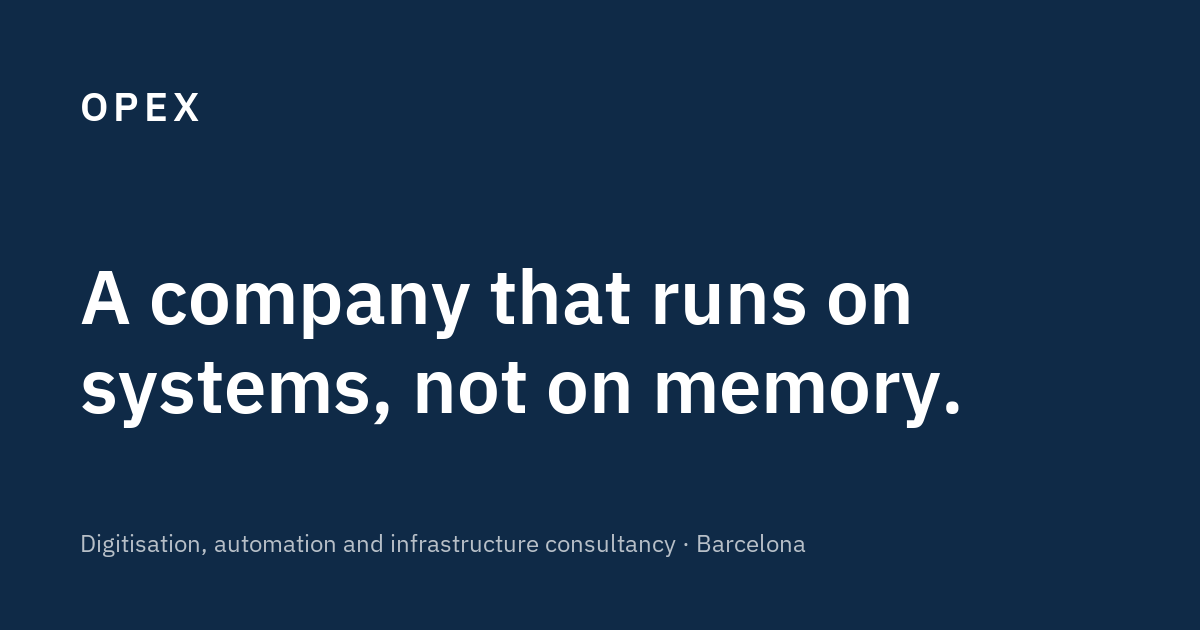
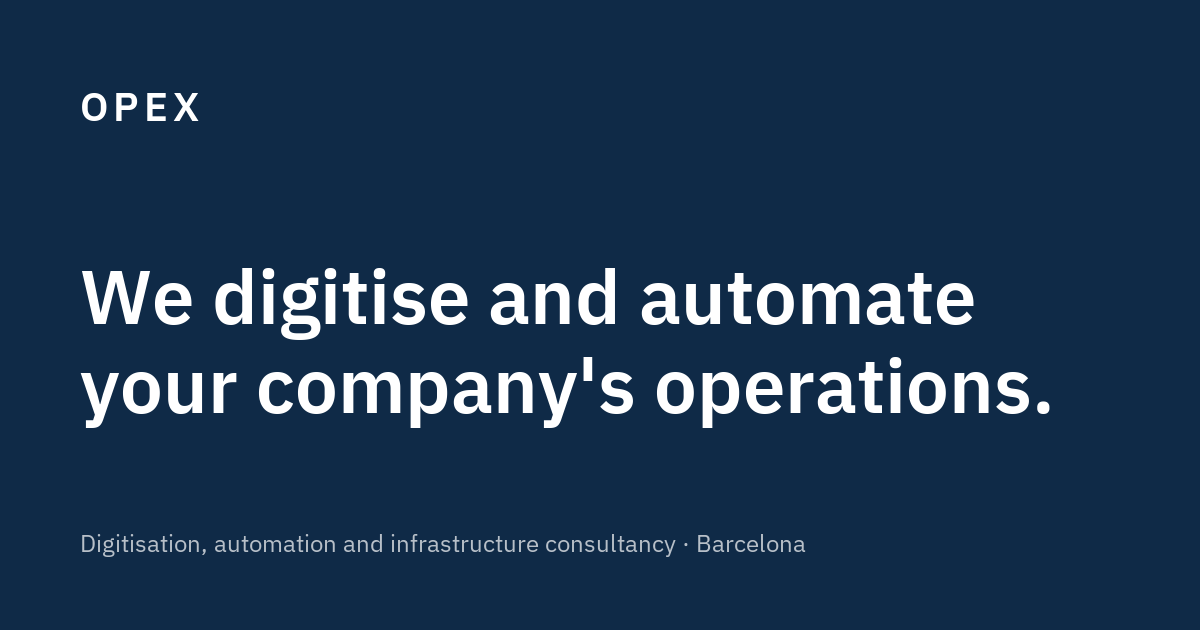
Change the homepage headline to a plain description of the service and regenerate the social cards

Changed region(s): [[0.0617, 0.573, 0.8942, 0.6937], [0.0617, 0.4222, 0.8325, 0.5429]]

diff --git a/site/en/index.html b/site/en/index.html
@@ -90,7 +90,7 @@
     <div class="container">
       <div class="hero__content">
         <p class="hero__eyebrow">Digitisation and automation consultancy in Barcelona, Spain</p>
-        <h1>A company that runs on systems, not on memory.</h1>
+        <h1>We digitise and automate your company's operations.</h1>
         <p class="lead">
           We build your company's operational backbone: digital processes, automation — with AI where it genuinely helps — and reliable infrastructure. Everything organised, documented and easy for your team to understand.
         </p>

diff --git a/site/index.html b/site/index.html
@@ -90,7 +90,7 @@
     <div class="container">
       <div class="hero__content">
         <p class="hero__eyebrow">Consultoría de digitalización y automatización en Barcelona</p>
-        <h1>Que tu empresa funcione con sistemas, no de memoria.</h1>
+        <h1>Digitalizamos y automatizamos las operaciones de tu empresa.</h1>
         <p class="lead">
           Construimos la base operativa de tu empresa: procesos digitales, automatizaciones —con IA donde aporta— e infraestructura fiable. Todo ordenado, documentado y fácil de entender para tu equipo.
         </p>
